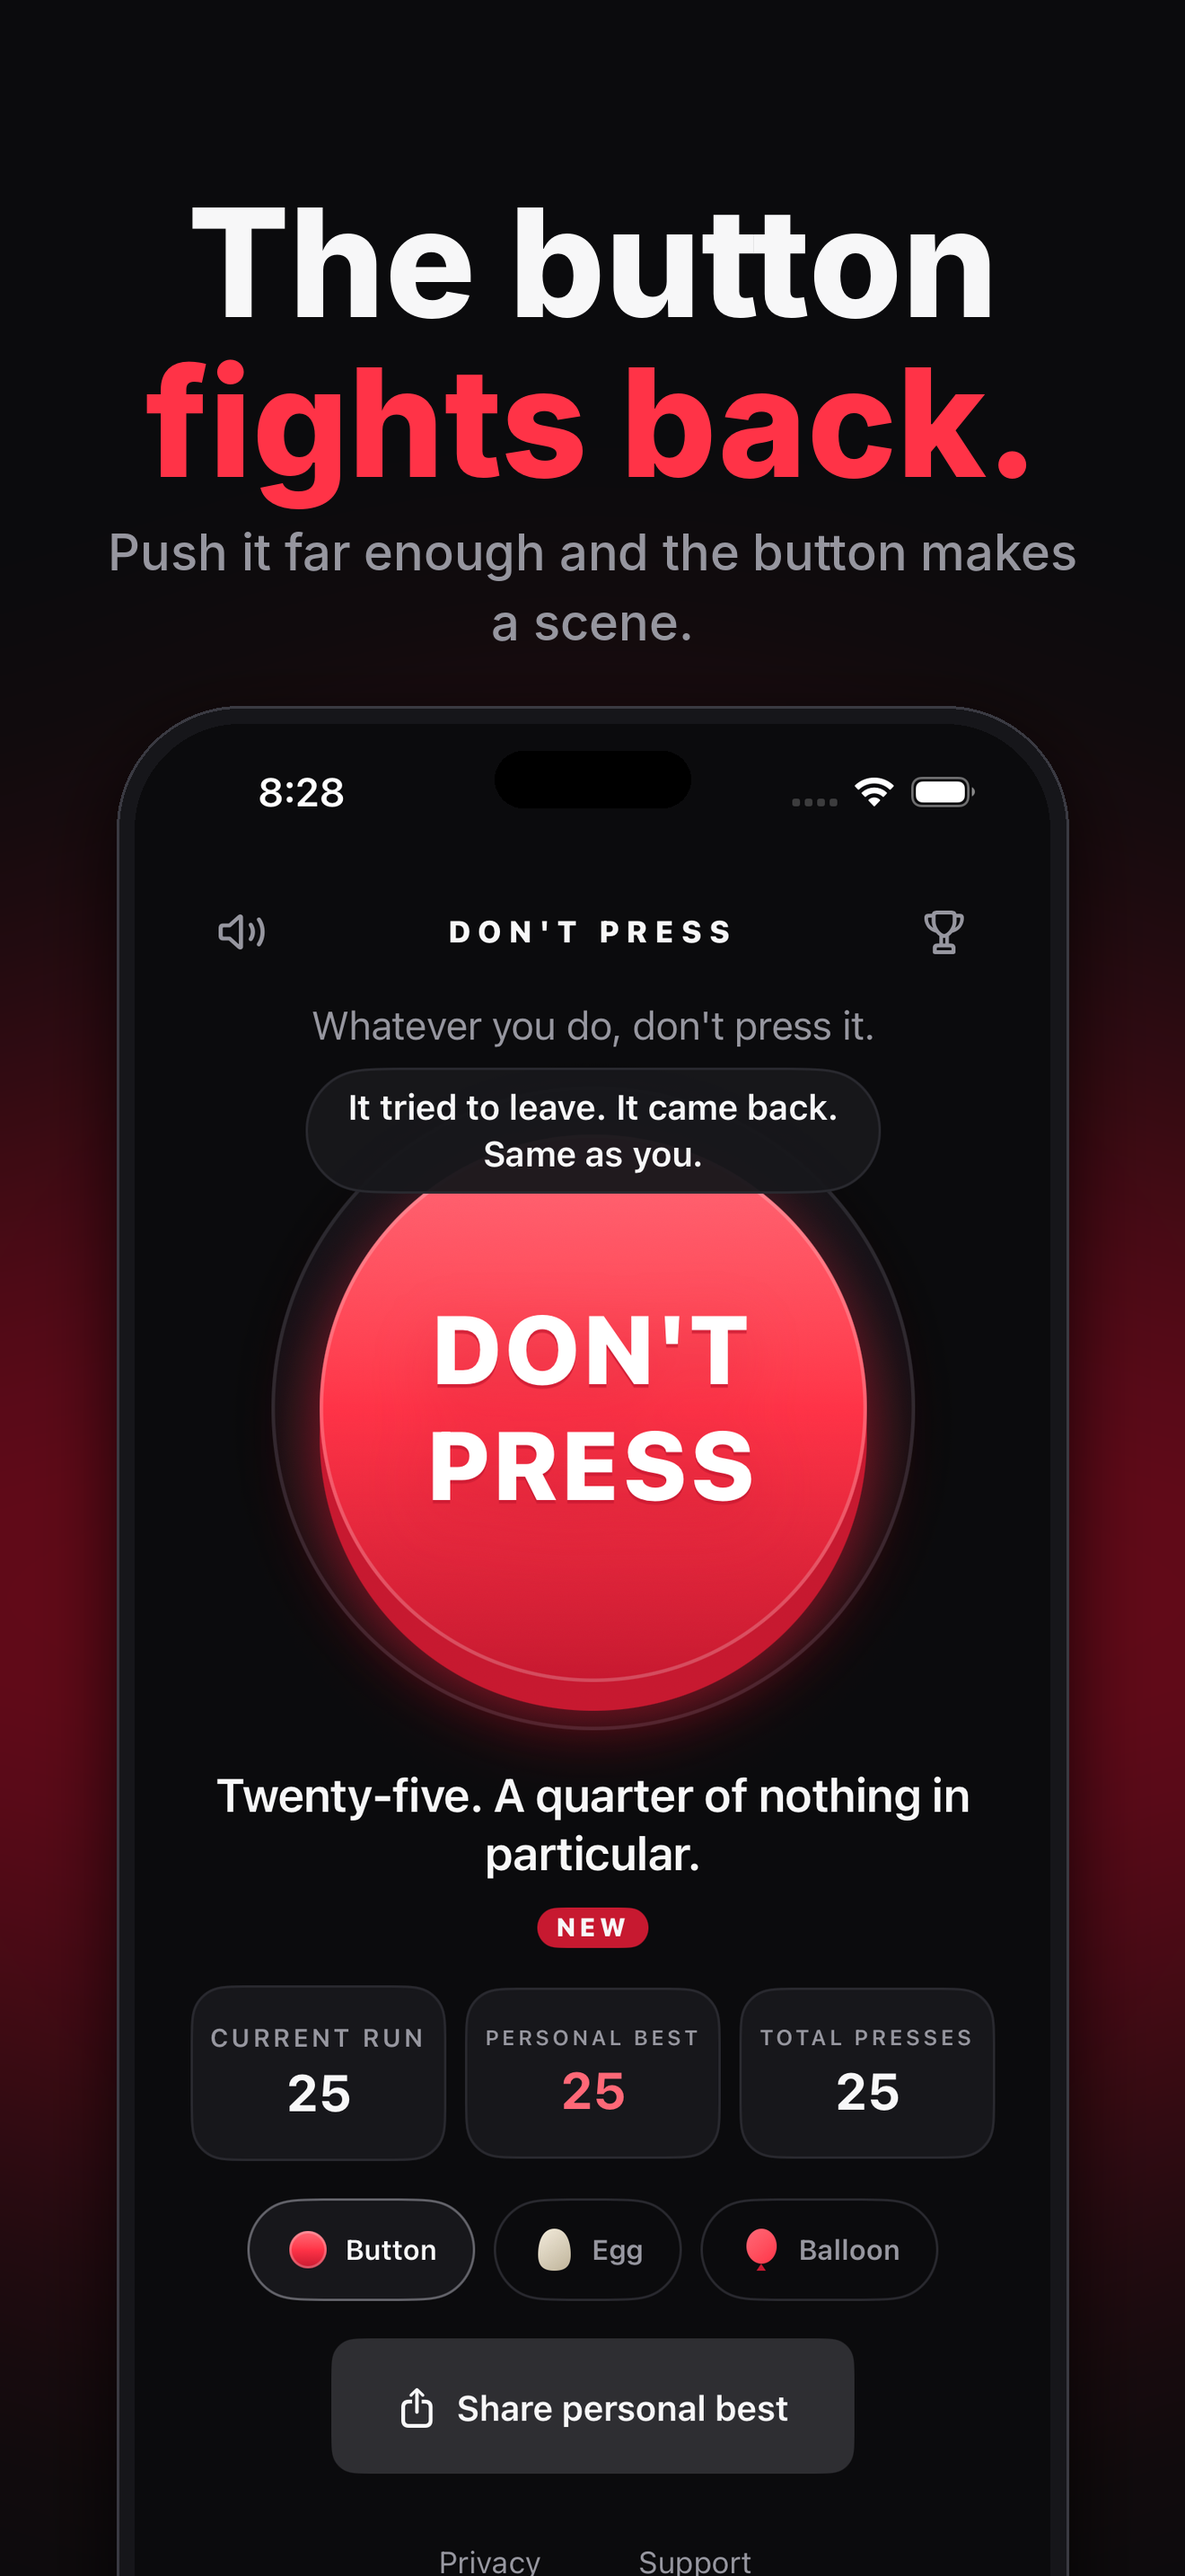
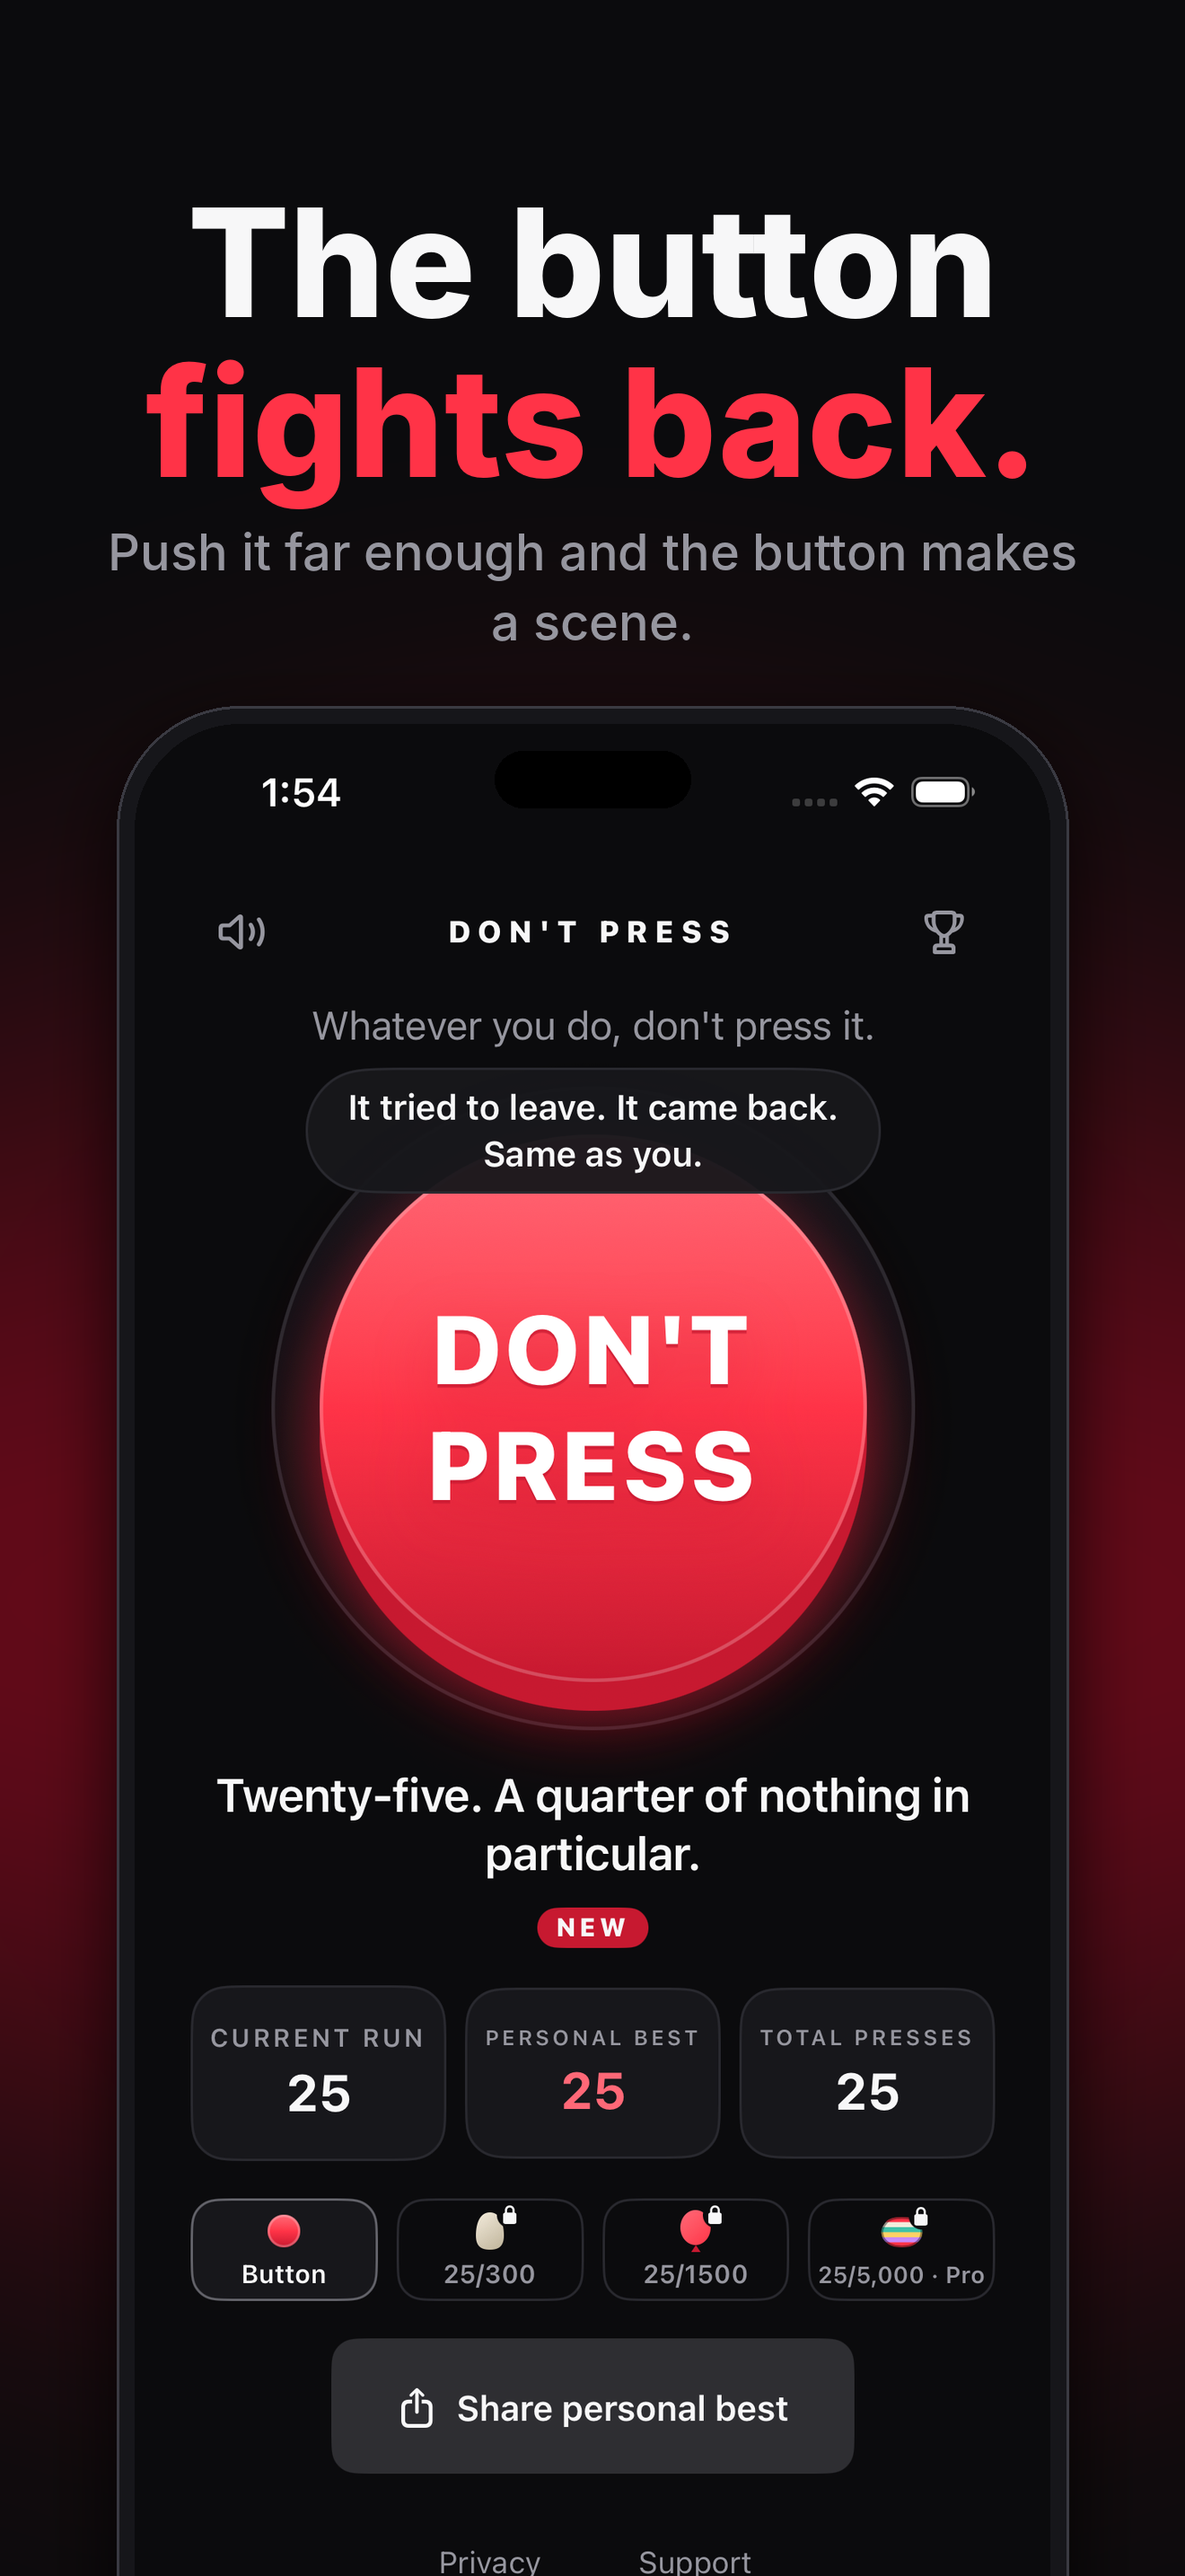
1.1 store screenshots (9 slides from real captures); honest toy captions; prompt step 4
Claude-Session: https://claude.ai/code/session_01UbtXokPUrDt7A3KKZ2RuRK

Changed region(s): [[0.1864, 0.8379, 0.8386, 0.8999], [0.2174, 0.2793, 0.2795, 0.3103]]

diff --git a/Scripts/make_store_screenshots.py b/Scripts/make_store_screenshots.py
@@ -5,7 +5,7 @@ screenshots captured by CI (ScreenshotTests) and the app's own share-card render
 usage: make_store_screenshots.py <dir with CI png files> <output dir> [--set v10|v11]
 
   --set v10 (default)  the 1.0 slide set (8 slides).
-  --set v11            the 1.1 slide set (10 slides): set-pieces, egg, balloon, daily challenge,
+  --set v11            the 1.1 slide set (9 slides; 10 with --with-pro-slide): set-pieces, egg, balloon, daily challenge,
                        Reactiondex and the v2 share card, from the `v11-*` captures in
                        DontPressUITests/ScreenshotTests.swift. A slide whose capture (and its
                        same-feature fallback) is missing is skipped with a warning, never faked.
@@ -16,6 +16,7 @@ import argparse, os, sys
 from PIL import Image, ImageDraw, ImageFont, ImageFilter
 
 SRC = OUT = None   # set in main()
+WITH_PRO_SLIDE = False
 W, H = 1320, 2868
 BG, RED, WHITE, GRAY = (11, 11, 13), (255, 51, 71), (247, 247, 248), (150, 150, 159)
 FONT = "/usr/share/fonts/opentype/inter/Inter-{}.otf"
@@ -156,18 +157,20 @@ def build_v11():
          "Push it far enough and the button makes a scene.",
          ("v11-setpiece-25", "v11-setpiece-50-lock")),
         ("03-crack.png", [[R("Crack it.")]],
-         "Tap the egg until something hatches. (Pro)", ("v11-egg-hatch", "v11-egg-crack")),
+         "Tap the egg until something hatches. Earn it, or get Pro.", ("v11-egg-hatch", "v11-egg-crack")),
         ("04-pop.png", [[Wt("Every tap")], [R("inflates it.")]],
-         "When it pops is a secret. (Pro)", ("v11-balloon", "v11-balloon-pop")),
+         "When it pops is a secret. Earn it, or get Pro.", ("v11-balloon-pop", "v11-balloon")),
         ("05-pinata.png", [[Wt("Whack it.")], [R("See what falls.")]],
          "The mythic Piñata. Pro, plus 5,000 total presses.", ("v11-pinata-burst", "v11-pinata")),
         ("06-daily.png", [[Wt("One challenge")], [R("a day.")]],
          "Same challenge for everyone. Keep your streak.", ("v11-daily",)),
         ("07-reactiondex.png", [[Wt("Collect every")], [R("reaction.")]],
          "Every line you find lands in the Reactiondex.", ("v11-reactiondex",)),
-        ("09-pro.png", [[Wt("Pro. Once.")], [R("No subscription.")]],
-         "Toys, styles and icons. The offer shows the price first.", ("12-pro-offer",)),
     ]
+    if WITH_PRO_SLIDE:
+        # Opt-in: the capture shows the price from the CI StoreKit test config, not the real App Store price.
+        slides.append(("10-pro.png", [[Wt("Pro. Once.")], [R("No subscription.")]],
+                       "Toys, styles and icons. The offer shows the price first.", ("12-pro-offer",)))
     for name, lines, sub, shots in slides:
         shot = find(*shots)
         if shot is None:
@@ -185,19 +188,21 @@ def build_v11():
 
     last = find("v11-collection", "09-collection", "03b-run-40", "01-launch")
     if last is None:
-        print("skipped 10-private.png: no capture found", file=sys.stderr)
+        print("skipped 09-private.png: no capture found", file=sys.stderr)
     else:
-        slide_phone("10-private.png", [[Wt("No ads. No accounts.")], [R("No excuses.")]],
+        slide_phone("09-private.png", [[Wt("No ads. No accounts.")], [R("No excuses.")]],
                     "Works offline. No data collected.", last)
 
 def main():
-    global SRC, OUT
+    global SRC, OUT, WITH_PRO_SLIDE
     ap = argparse.ArgumentParser(description="Build App Store marketing screenshots from real captures.")
     ap.add_argument("src", help="directory with the CI PNG captures (named by XCTAttachment name)")
     ap.add_argument("out", help="output directory")
     ap.add_argument("--set", dest="set", choices=["v10", "v11"], default="v10", help="slide set (default: v10)")
+    ap.add_argument("--with-pro-slide", action="store_true",
+                    help="also build 10-pro.png (only if the StoreKit price in the capture equals the real price)")
     args = ap.parse_args()
-    SRC, OUT = args.src, args.out
+    SRC, OUT, WITH_PRO_SLIDE = args.src, args.out, args.with_pro_slide
     {"v10": build_v10, "v11": build_v11}[args.set]()
 
 if __name__ == "__main__":

diff --git a/docs/UPLOAD_1_1_PROMPT.md b/docs/UPLOAD_1_1_PROMPT.md
@@ -27,14 +27,14 @@ before that and ask me. Never print or commit secrets, certificates or API keys.
      Organizer (`open build/DontPress.xcarchive`) and tell me to press Distribute App > App Store Connect > Upload.
      Do not attempt to bypass signing.
 
-4. STORE SCREENSHOTS (1.1 set, from real captures only)
-   - `git fetch origin ci-screenshots && mkdir -p build/ci && git archive origin/ci-screenshots | tar -x -C build/ci`
-   - Install Pillow (`pip3 install pillow`) and the Inter font; Scripts/make_store_screenshots.py expects Inter OTF files
-     at the path in its FONT constant: adjust that path for macOS in a local, uncommitted copy only.
-   - `python3 Scripts/make_store_screenshots.py build/ci docs/appstore-1.1 --set v11`
-   - Open the PNGs and check each one: nothing cropped, no fake UI, numbers match the app. Tell me which slides were
-     skipped (the script skips a slide when a capture is missing; there is no Piñata capture yet).
-   - The 6.9" size is 1320x2868. Never fabricate UI.
+4. STORE SCREENSHOTS (1.1 set, already generated from real CI captures)
+   - The 9 finished slides (1320x2868, 6.9") are in docs/appstore-1.1/ (01-dont ... 09-private). Open each PNG and
+     check it: nothing cropped, no fake UI, numbers match the app. There is room for a 10th slide: the Pro offer
+     (10-pro.png). Do NOT build it unless the price in the capture equals my real App Store price (the CI capture
+     shows the test StoreKit price, $1.99). If I want it, ask me for the real price and regenerate the capture first.
+   - To regenerate: `git fetch origin ci-screenshots && mkdir -p build/ci && git archive origin/ci-screenshots | tar -x -C build/ci`,
+     then `python3 Scripts/make_store_screenshots.py build/ci docs/appstore-1.1 --set v11` (needs Pillow and the Inter font;
+     adjust the FONT path locally, uncommitted). Never fabricate UI.
 
 5. APP STORE CONNECT TEXT (I paste it myself; you do not have my credentials)
    - Write a file build/appstore-1.1-texts.txt from docs/RELEASE_1_1.md section by section: name, subtitle, promo
